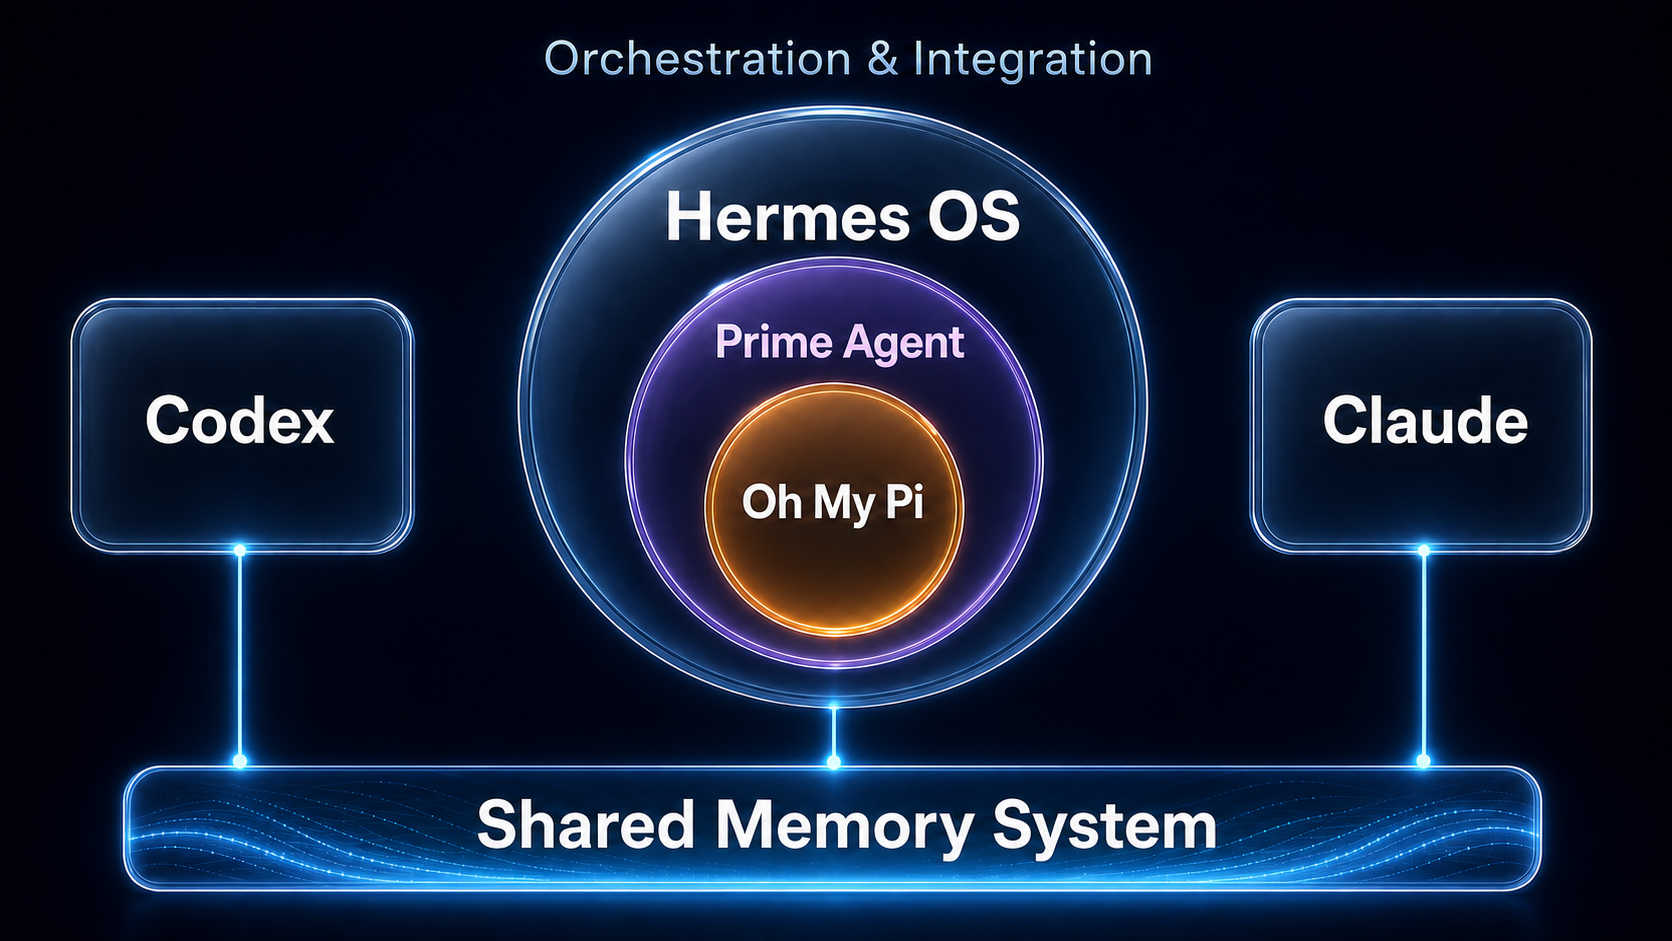
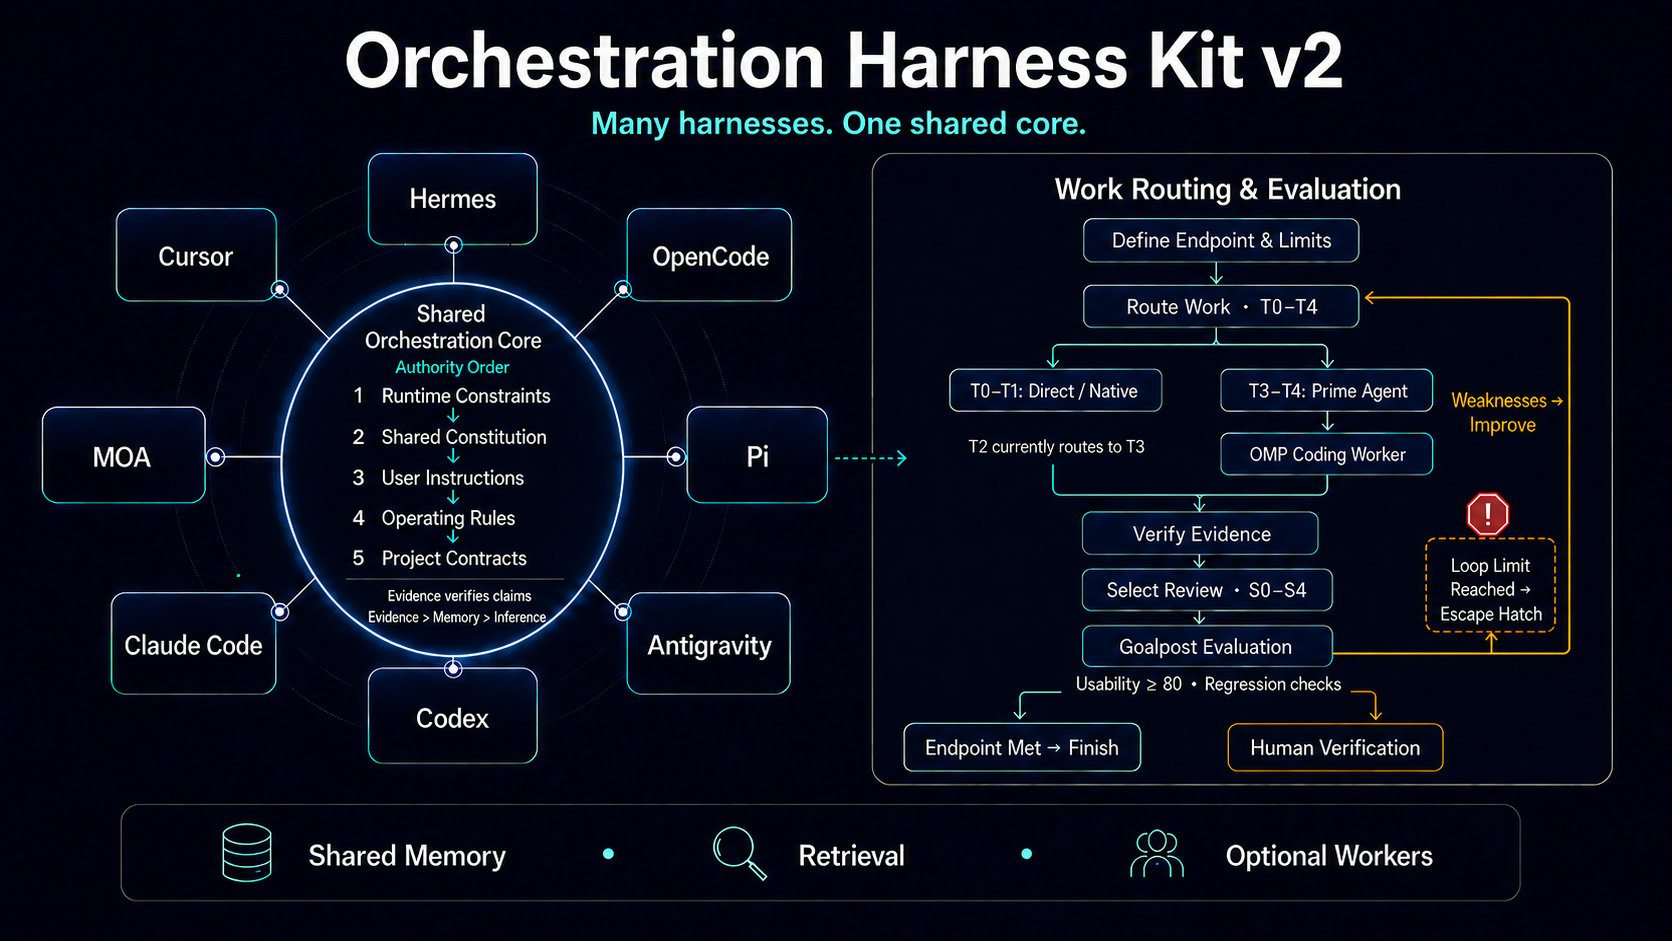
docs: replace architecture image with shared authority and routing diagram

diff --git a/README.md b/README.md
@@ -18,15 +18,16 @@ The default topology is **one agentic system on one PC**. That PC owns the
 home disk, memory, approvals, and backups. VPS and second-PC connections are
 optional modules you enable later; neither becomes a second storage writer.
 
-## Harness hierarchy
+## Shared authority and work routing
 
-![Architecture diagram: Hermes OS contains Prime Agent, which contains Oh My Pi. Codex, Hermes OS, and Claude each independently connect only to the shared memory system.](assets/harness-fusion-hierarchy.png)
+![Eight peer harnesses connect to a shared orchestration core. The diagram shows authority precedence, T0-T4 execution routing through native tools or Prime Agent and OMP, S0-S4 review, goalpost evaluation, bounded improvement loops, an escape hatch, and human verification.](assets/harness-fusion-hierarchy.png)
 
-Hermes OS is the orchestration layer: it hosts Prime Agent, and Prime Agent
-governs the Oh My Pi coding lane. Codex, Claude, and Hermes OS remain separate
-harnesses. Each connects independently to the shared memory system—there are no
-direct harness-to-harness links—so decisions and durable context can move with
-the work rather than being trapped in one tool.
+All eight harnesses connect as peers to the shared orchestration core. The left
+side shows authority precedence, with evidence supporting factual claims.
+The right side shows execution routing, Prime Agent coordinating OMP workers,
+and evidence and review checks feeding goalpost evaluation. Work continues
+until the endpoint passes or a loop limit triggers the escape hatch. Human
+verification provides a separate review path.
 
 ## What's in the box (plain-language tour)
 
